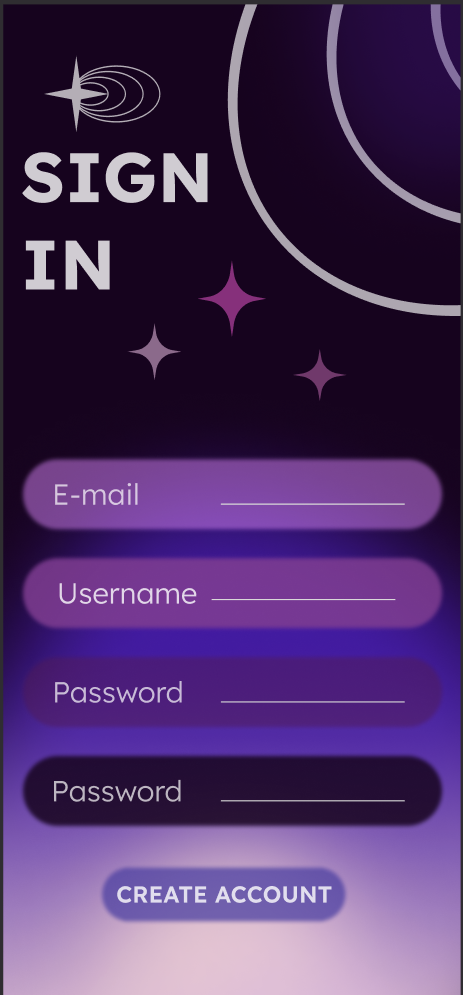
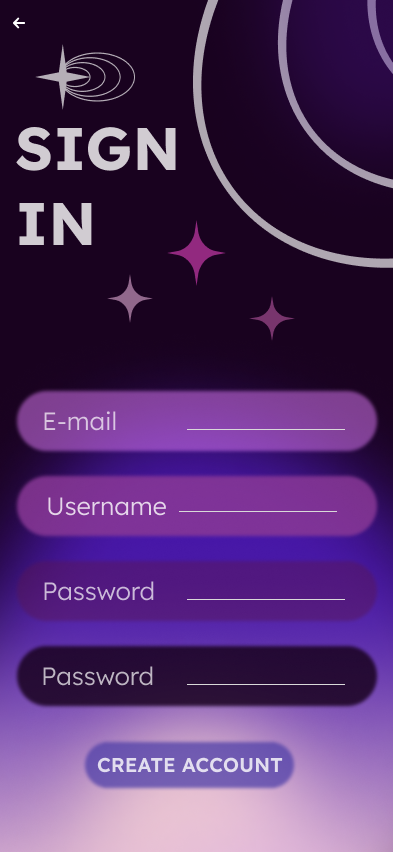
hanges, resources and buttons to go back
buttons in log in and sign in to go back to the mainWindow

diff --git a/RoomPals/SignInWindow.xaml b/RoomPals/SignInWindow.xaml
@@ -34,6 +34,13 @@
                     <RowDefinition Height="62*"/>
                 </Grid.RowDefinitions>
 
+                <Button Name="go_back"
+                HorizontalAlignment="Left" 
+                VerticalAlignment="Top" Height="20" Width="30" 
+                Style="{StaticResource RoundedTransparentButtonStyle}"
+                Margin="5,0,0,0"
+                Click="go_back_Click"/>
+
                 <!-- Email button -->
                 <Button Name="Email"
                         Grid.ColumnSpan="4" 

diff --git a/RoomPals/LogInWindow.xaml b/RoomPals/LogInWindow.xaml
@@ -30,7 +30,12 @@
         </Grid.RowDefinitions>
 
 
-
+        <Button Name="go_back"
+                HorizontalAlignment="Left" 
+                VerticalAlignment="Top" Height="20" Width="30" 
+                Style="{StaticResource RoundedTransparentButtonStyle}"
+                Margin="5,0,0,0"
+                Click="go_back_Click"/>
 
         <!-- Dekoracje -->
         <Ellipse Width="200" Height="200" Stroke="Gray" StrokeThickness="1"

diff --git a/RoomPals/StartWindow.xaml b/RoomPals/StartWindow.xaml
@@ -8,7 +8,7 @@
         Title="StartWindow" Height="852" Width="393" ResizeMode="NoResize" WindowStartupLocation="CenterScreen">
 
     <Window.Background>
-        <ImageBrush ImageSource="Images\startPage1.png" Stretch="Fill"/>
+        <ImageBrush ImageSource="Images\startPage2.png" Stretch="Fill"/>
     </Window.Background>
 
     <Grid>

diff --git a/RoomPals/Classes/StudentData.cs b/RoomPals/Classes/StudentData.cs
@@ -16,15 +16,6 @@ namespace RoomPals.Classes
             StudentPersistence.SaveStudents(Students);
         }
 
-        /*public static List<Student> Students = new List<Student>
-        {
-            new Student("Nikola", "Jamrozy", 19, "IT", "night", "dog", "book", "active", "pl", "esp", "nicoxeye", "nicoxeye@op.pl", "Randompassword1", "myslowice"),
-            new Student("Jola", "Majcher", 19, "IT", "night", "dog", "party", "active", "pl", "eng", "yola", "yola@op.pl", "Randompassword1", "chorzow"),
-            new Student("Weronika", "Miozga", 20, "IT", "night", "dog", "party", "active", "pl", "eng", "jellix", "jellix@op.pl", "Randompassword1", "katowice"),
-            new Student("Julia", "Pawlik", 20, "IT", "night", "cat", "party", "active", "pl", "eng", "judzia", "judzia@op.pl", "Randompassword1", "katowice"),
-            new Student("Jakub", "Jamrozy", 25, "Logistics", "night", "cat", "party", "active", "pl", "none", "jamrox", "jamrox@op.pl","Randompassword1", "myslowice")
-        }; */
-
         public static void UpdateStudent(Student updatedStudent)
         {
             // find a student by username

diff --git a/RoomPals/SignInWindow.xaml.cs b/RoomPals/SignInWindow.xaml.cs
@@ -182,5 +182,12 @@ namespace RoomPals
         {
             return !string.IsNullOrEmpty(username);
         }
+
+        private void go_back_Click(object sender, RoutedEventArgs e)
+        {
+            MainWindow mainWindow = new MainWindow();
+            mainWindow.Show();
+            this.Close();
+        }
     }
 }

diff --git a/RoomPals/LogInWindow.xaml.cs b/RoomPals/LogInWindow.xaml.cs
@@ -80,5 +80,12 @@ namespace RoomPals
                 PasswordBox.Focus();
             }
         }
+
+        private void go_back_Click(object sender, RoutedEventArgs e)
+        {
+            MainWindow mainWindow = new MainWindow();
+            mainWindow.Show();
+            this.Close();
+        }
     }
 }
